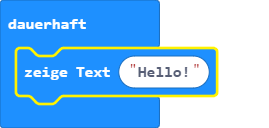
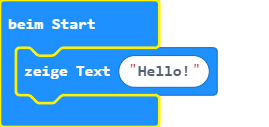
Aktualisiere main.blocks, main.ts

diff --git a/main.ts b/main.ts
@@ -1,3 +1,1 @@
-basic.forever(function () {
-    basic.showString("Hello!")
-})
+basic.showString("Hello!")
